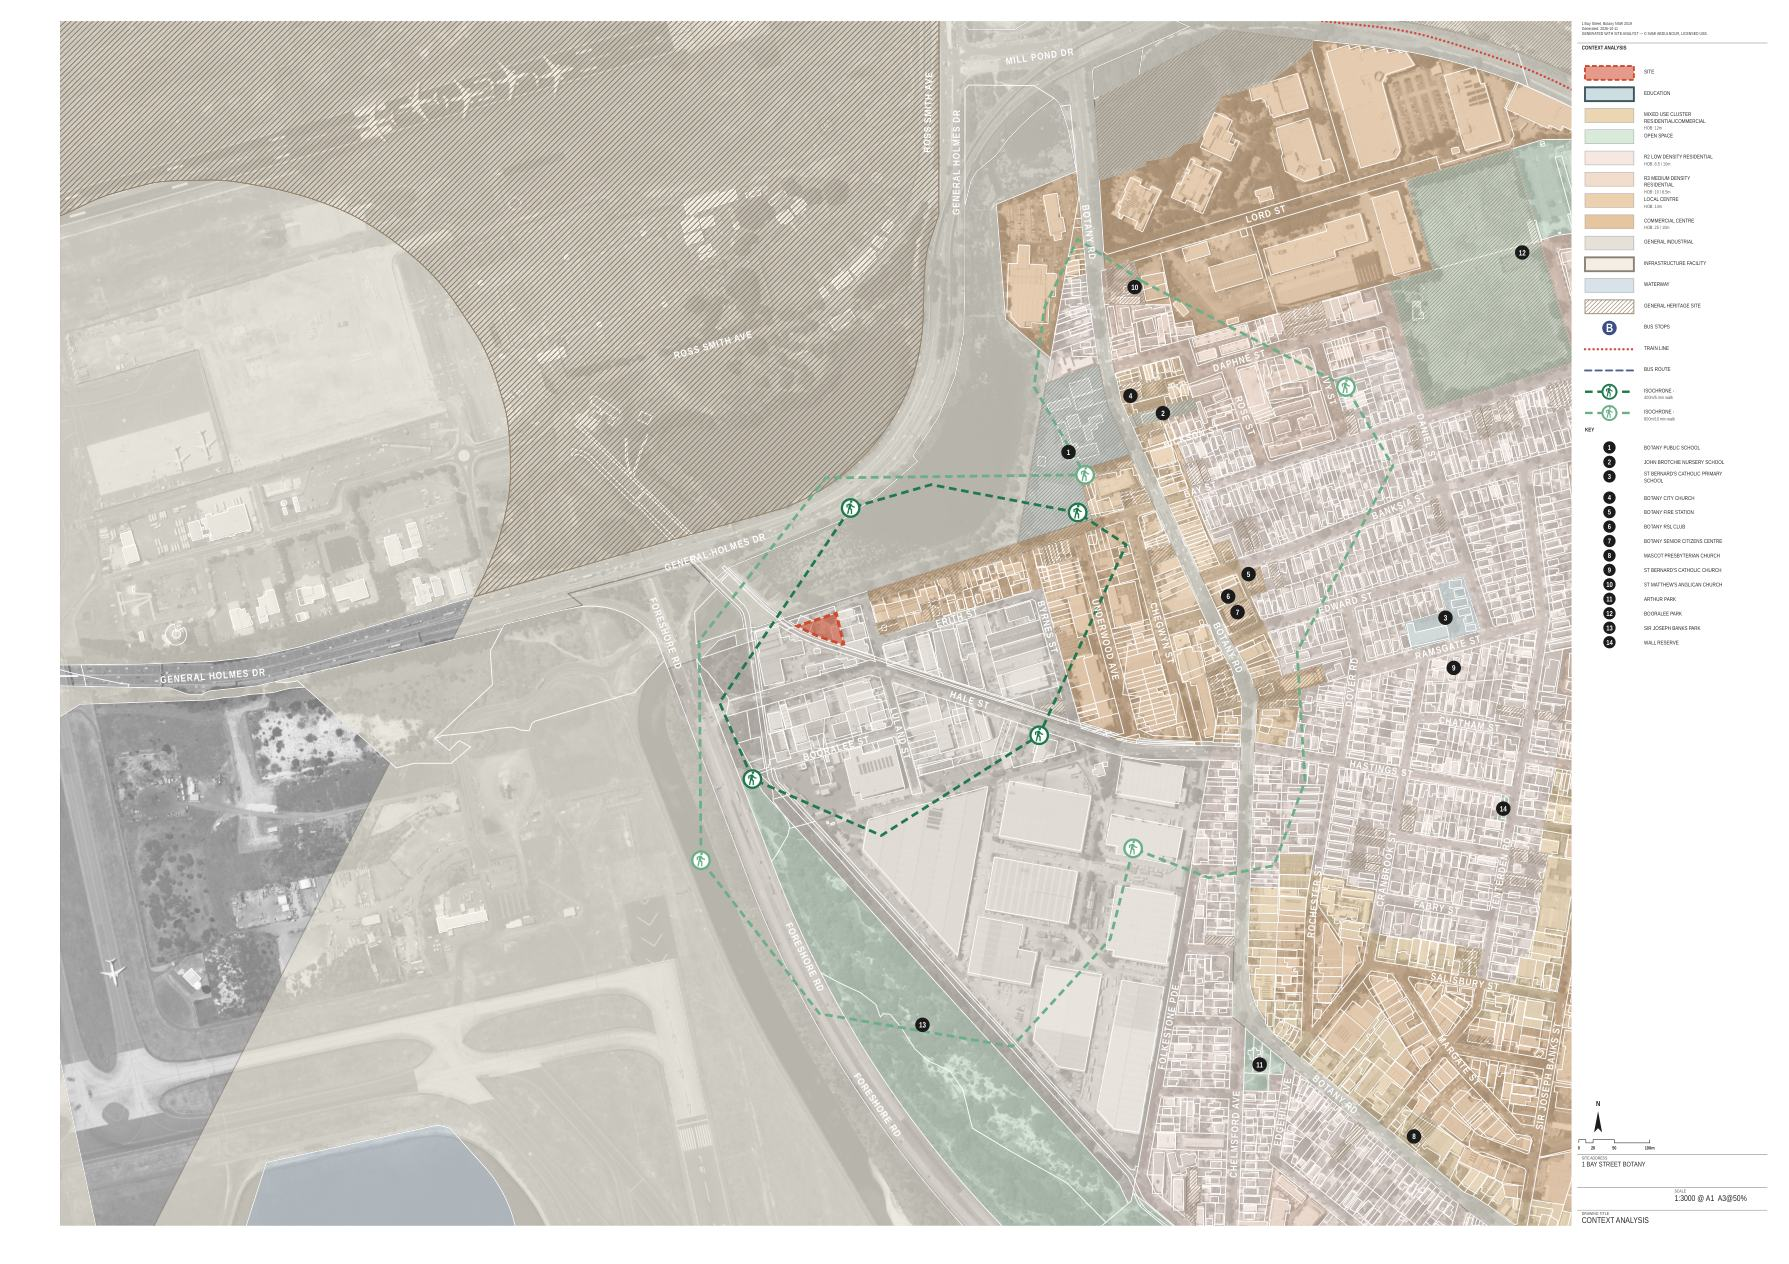
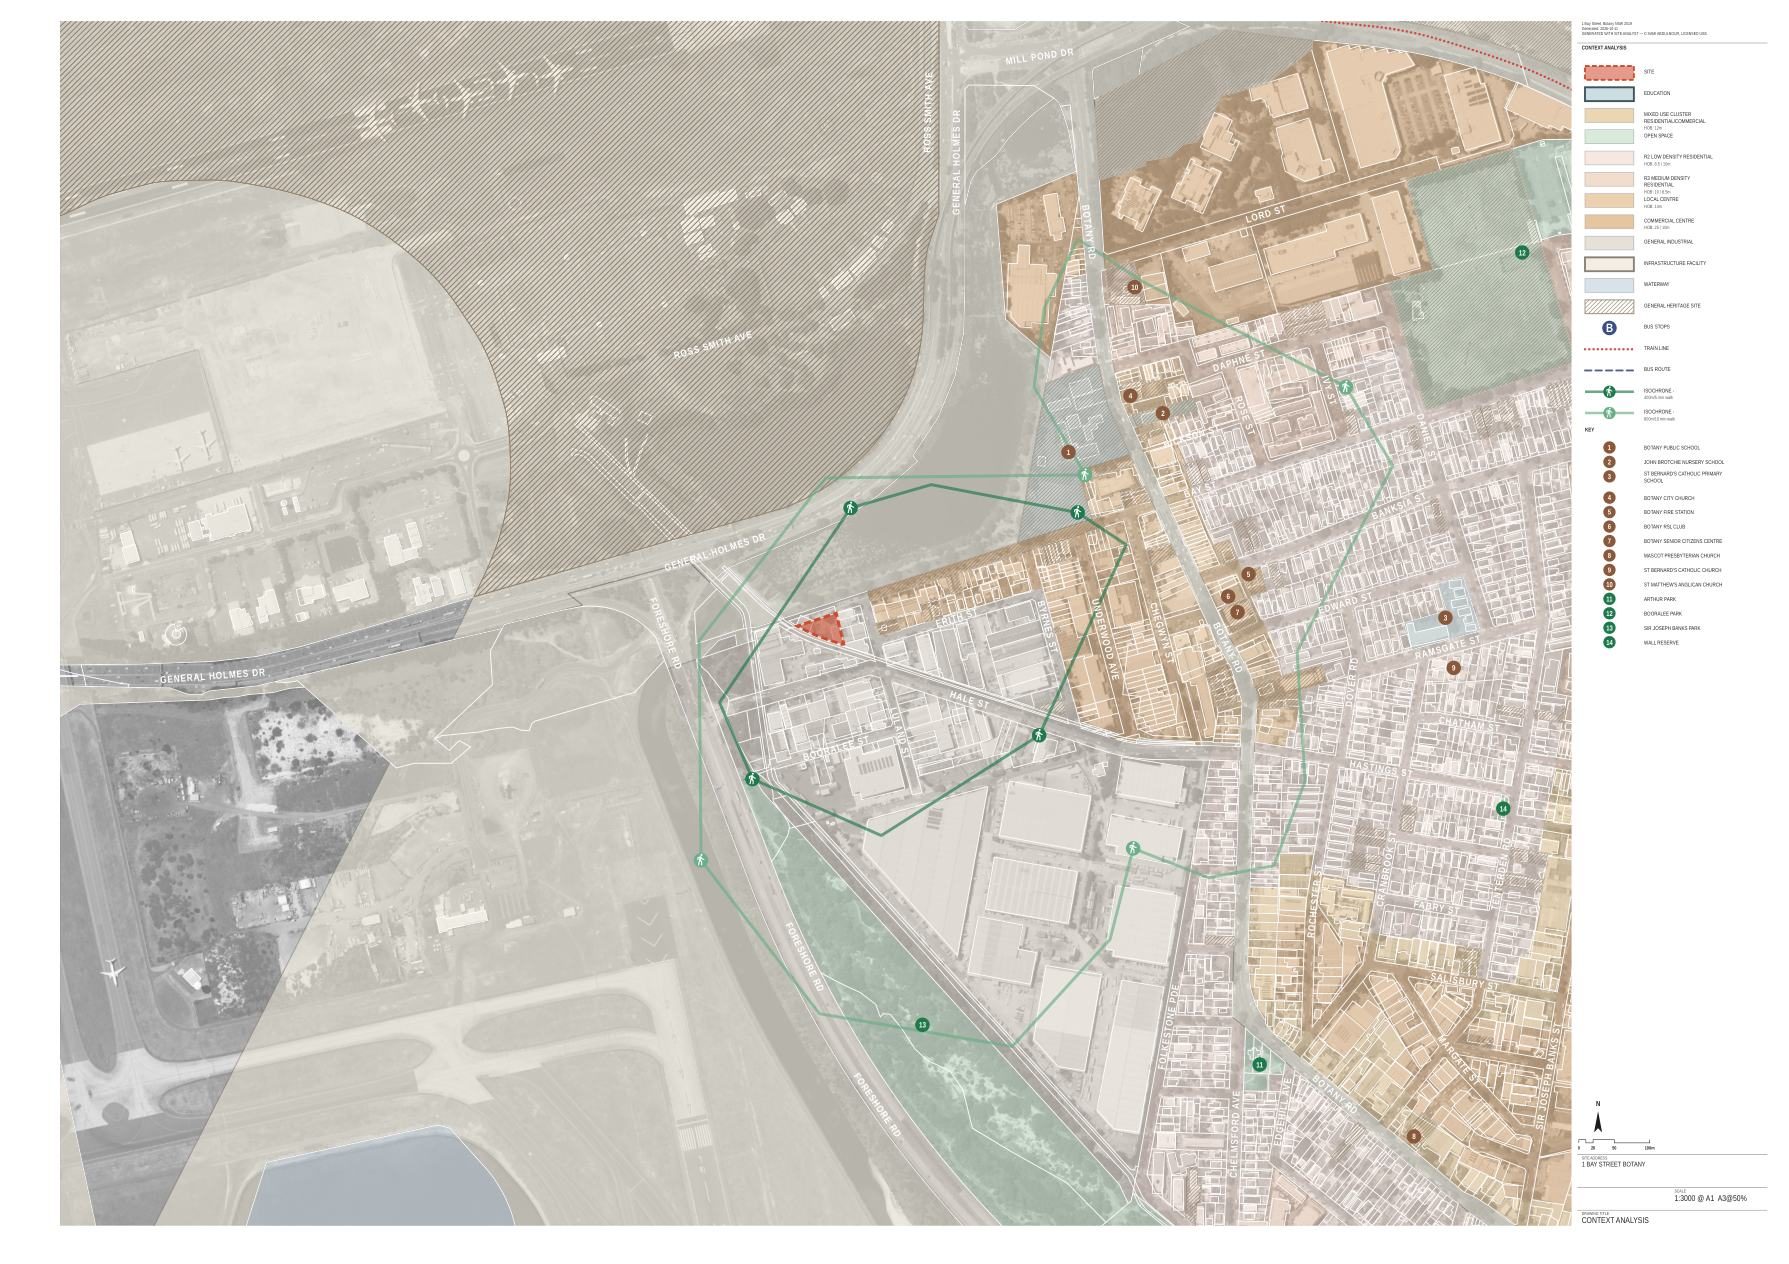
Noise as three wavy lines; Heron: continuous catchments, green walker discs, brown and green number discs
- Site sheet noise: three wavy lines side by side beside the source, each a
  white stroke in a blue pen swelling toward its middle and tapering at its
  ends, like the wind and the sun's rays.
- Heron: the catchments a continuous line at 65% opacity; the walker marker
  a solid disc in the ring's green with a white walker, the size of the
  other round marks; institution number discs brown and park discs green
  (new template field discParkInk), white numbers on both.

Claude-Session: https://claude.ai/code/session_01RgQLhzf6Uiv4rCaYoXs4QT

diff --git a/src/render/siteSheet.ts b/src/render/siteSheet.ts
@@ -329,9 +329,9 @@ export function renderSiteSheet(sb: SiteBundle, meta: SheetMeta): string {
     return inside;
   };
   const noiseMarks: string[] = [];
-  // The sound arcs drawn out along the source, on the site's side, white
-  // inside a blue pen like the wind. They break where they would cross the
-  // site or leave the sheet.
+  // Sound as wavy lines along the source, on the site's side, white inside a
+  // blue pen like the wind. They break where they would cross the site or
+  // leave the sheet.
   const soundAlong = (pts: Pt[], seed: number) => {
     const samples: { p: Pt; n: Pt; s: number }[] = [];
     let run = 0;
@@ -340,43 +340,49 @@ export function renderSiteSheet(sb: SiteBundle, meta: SheetMeta): string {
       const len = Math.hypot(bx - ax, by - ay);
       if (!len) continue;
       const nx = -(by - ay) / len, ny = (bx - ax) / len;
-      for (let d = 0; d < len; d += 0.6) samples.push({ p: [ax + ((bx - ax) * d) / len, ay + ((by - ay) * d) / len], n: [nx, ny], s: run + d });
+      for (let d = 0; d < len; d += 0.3) samples.push({ p: [ax + ((bx - ax) * d) / len, ay + ((by - ay) * d) / len], n: [nx, ny], s: run + d });
       run += len;
     }
     if (samples.length < 2) return;
     const mid = samples[Math.floor(samples.length / 2)];
     const side = Math.sign((noiseCentre[0] - mid.p[0]) * mid.n[0] + (noiseCentre[1] - mid.p[1]) * mid.n[1]) || 1;
-    // The rope: one continuous strip nearest the source, fattest in each
-    // arc and pinched between them. Beyond it, two rows of shorter, thinner
-    // dashes, each dash an arc on its own, the sound fading as it spreads.
-    // [offset from the source, half-thickness, arc length, dash on, period]
-    const strips: [number, number, number, number, number][] = [
-      [6, 1.6, 15, 0, 0],
-      [13.5, 1.05, 0, 8, 15],
-      [20, 0.7, 0, 5, 15],
-    ];
-    strips.forEach(([off, th, arcLen, on, period], k) => {
-      let left: string[] = [], right: string[] = [];
-      const flush = () => {
-        if (left.length > 3) noiseMarks.push(`<path d="M${left.join('L')}L${right.reverse().join('L')}Z"/>`);
-        left = []; right = [];
-      };
+    // Three wavy lines side by side, each a stroke white inside a blue pen
+    // that swells toward its middle and tapers away at its ends (and a
+    // little along the way), like the wind's arrows and the sun's rays.
+    // [offset from the source (mm), half-thickness at its fullest]
+    const lines: [number, number][] = [[7, 1.3], [17, 1.6], [27, 1.9]];
+    const A = 3.2, P = 12;                   // the waves' amplitude and period, mm
+    lines.forEach(([off, th], k) => {
+      // The wavy centre line, run by run.
+      const runs: Pt[][] = [];
+      let cur: Pt[] = [];
       for (const { p, n, s: t } of samples) {
-        const c = side * (off + 1.2 * Math.sin(t / 23 + seed));
-        const cx = p[0] + n[0] * c, cy = p[1] + n[1] * c;
-        if (!inMap([cx, cy]) || inSiteRing(cx, cy)) { flush(); continue; }
-        let w: number;
-        if (!on) {
-          w = 0.18 + th * Math.pow(Math.abs(Math.sin((Math.PI * t) / arcLen + seed)), 0.7);
-        } else {
-          const u = (((t + k * 4.5 + seed * 3) % period) + period) % period;
-          if (u > on) { flush(); continue; }
-          w = 0.05 + th * Math.pow(Math.sin((Math.PI * u) / on), 0.7);
-        }
-        left.push(`${(cx + n[0] * w).toFixed(2)},${(cy + n[1] * w).toFixed(2)}`);
-        right.push(`${(cx - n[0] * w).toFixed(2)},${(cy - n[1] * w).toFixed(2)}`);
+        const base = side * (off + 0.8 * Math.sin(t / 29 + seed));
+        const bx = p[0] + n[0] * base, by = p[1] + n[1] * base;
+        if (!inMap([bx, by]) || inSiteRing(bx, by)) { if (cur.length > 8) runs.push(cur); cur = []; continue; }
+        const wv = A * Math.sin((2 * Math.PI * t) / P + seed + k * 1.1);
+        cur.push([bx + n[0] * wv, by + n[1] * wv]);
       }
-      flush();
+      if (cur.length > 8) runs.push(cur);
+      for (const r of runs) {
+        const cum = [0];
+        for (let i = 1; i < r.length; i++) cum.push(cum[i - 1] + Math.hypot(r[i][0] - r[i - 1][0], r[i][1] - r[i - 1][1]));
+        const L = cum[cum.length - 1] || 1;
+        const left: string[] = [], right: string[] = [];
+        for (let i = 0; i < r.length; i++) {
+          const a2 = r[Math.max(0, i - 1)], b2 = r[Math.min(r.length - 1, i + 1)];
+          const tx = b2[0] - a2[0], ty = b2[1] - a2[1];
+          const tl = Math.hypot(tx, ty) || 1;
+          const nx = -ty / tl, ny = tx / tl;
+          const u = cum[i] / L;
+          // Tapered at both ends of the run, swelling gently along it.
+          const taper = Math.min(1, u / 0.08, (1 - u) / 0.08);
+          const w = 0.12 + th * Math.max(0, taper) * (0.75 + 0.25 * Math.sin(cum[i] / 17 + seed * 2 + k));
+          left.push(`${(r[i][0] + nx * w).toFixed(2)},${(r[i][1] + ny * w).toFixed(2)}`);
+          right.push(`${(r[i][0] - nx * w).toFixed(2)},${(r[i][1] - ny * w).toFixed(2)}`);
+        }
+        noiseMarks.push(`<path d="M${left.join('L')}L${right.reverse().join('L')}Z"/>`);
+      }
     });
   };
   const mainRoads = sb.roads.filter((r) => r.hierarchy <= 4);
@@ -1022,25 +1028,21 @@ export function renderSiteSheet(sb: SiteBundle, meta: SheetMeta): string {
   if (sb.busStops.length) row(`<g transform="translate(${mid},3.2)"><circle r="3.4" fill="#fff" stroke="#2f7fd6" stroke-width="0.8"/><text text-anchor="middle" dy="1.9" font-size="5.7" font-weight="700" fill="#2f7fd6">B</text></g>`, 'BUS STOPS');
   if (sb.furniture.onewayRoads.length) row(`<path d="M${SWATCH_X},3.2 L${SWATCH_X + SWATCH_W - 4},3.2 M${SWATCH_X + SWATCH_W - 7},1.4 L${SWATCH_X + SWATCH_W - 4},3.2 L${SWATCH_X + SWATCH_W - 7},5" fill="none" stroke="#8a8a8a" stroke-width="1.0"/>`, 'TRAFFIC DIRECTION');
   {
-    const strip = (y: number, th: number, len: number, ph: number) => {
+    const wavy = (y: number, th: number, ph: number) => {
+      const pts: Pt[] = [];
+      for (let x = 0; x <= SWATCH_W - 2; x += 0.2) pts.push([SWATCH_X + 1 + x, y + 0.55 * Math.sin((2 * Math.PI * x) / 2.6 + ph)]);
       const top: string[] = [], bot: string[] = [];
-      for (let x = 0; x <= SWATCH_W - 2; x += 0.4) {
-        const w = 0.08 + th * Math.pow(Math.abs(Math.sin((Math.PI * x) / len + ph)), 0.7);
-        top.push(`${(SWATCH_X + 1 + x).toFixed(2)},${(y - w).toFixed(2)}`);
-        bot.push(`${(SWATCH_X + 1 + x).toFixed(2)},${(y + w).toFixed(2)}`);
-      }
+      pts.forEach((pt, i) => {
+        const a2 = pts[Math.max(0, i - 1)], b2 = pts[Math.min(pts.length - 1, i + 1)];
+        const tx = b2[0] - a2[0], ty = b2[1] - a2[1], tl = Math.hypot(tx, ty) || 1;
+        const u = i / (pts.length - 1);
+        const w = 0.05 + th * Math.min(1, u / 0.12, (1 - u) / 0.12);
+        top.push(`${(pt[0] - (ty / tl) * w).toFixed(2)},${(pt[1] + (tx / tl) * w).toFixed(2)}`);
+        bot.push(`${(pt[0] + (ty / tl) * w).toFixed(2)},${(pt[1] - (tx / tl) * w).toFixed(2)}`);
+      });
       return `<path d="M${top.join('L')}L${bot.reverse().join('L')}Z"/>`;
     };
-    const dash = (x0: number, y: number, th: number, len: number) => {
-      const top: string[] = [], bot: string[] = [];
-      for (let x = 0; x <= len; x += 0.3) {
-        const w = 0.04 + th * Math.pow(Math.sin((Math.PI * x) / len), 0.7);
-        top.push(`${(SWATCH_X + x0 + x).toFixed(2)},${(y - w).toFixed(2)}`);
-        bot.push(`${(SWATCH_X + x0 + x).toFixed(2)},${(y + w).toFixed(2)}`);
-      }
-      return `<path d="M${top.join('L')}L${bot.reverse().join('L')}Z"/>`;
-    };
-    row(`<g fill="#fff" stroke="${NOISE_BLUE}" stroke-width="0.25" stroke-linejoin="round">${strip(5.4, 0.55, 6, 0)}${dash(2, 3, 0.35, 3.6)}${dash(8.5, 3, 0.35, 3.6)}${dash(15, 3, 0.35, 3.6)}${dash(4, 1, 0.25, 2.4)}${dash(10.5, 1, 0.25, 2.4)}${dash(17, 1, 0.25, 2.4)}</g>`, 'NOISE SOURCE', 'busy roads and the railway');
+    row(`<g fill="#fff" stroke="${NOISE_BLUE}" stroke-width="0.2" stroke-linejoin="round">${wavy(1.2, 0.32, 0)}${wavy(3.2, 0.38, 1.1)}${wavy(5.2, 0.44, 2.2)}</g>`, 'NOISE SOURCE', 'busy roads and the railway');
   }
   {
     const rib = `M${SWATCH_X + 2},2.6 C${SWATCH_X + 7},0.8 ${SWATCH_X + 11},4.8 ${SWATCH_X + 16},2.4 L${SWATCH_X + 16},1 L${SWATCH_X + 21},3.2 L${SWATCH_X + 16},5.4 L${SWATCH_X + 16},4 C${SWATCH_X + 11},6.2 ${SWATCH_X + 7},2.6 ${SWATCH_X + 2},3.8 Z`;

diff --git a/src/render/sheet.ts b/src/render/sheet.ts
@@ -153,11 +153,11 @@ export function walkerGlyph(color: string, scale: number): string {
   return `<g transform="scale(${scale}) translate(-12.6,-13.5)"><path fill="${color}" d="M13.5 5.5c1.1 0 2-.9 2-2s-.9-2-2-2-2 .9-2 2 .9 2 2 2zM9.8 8.9L7 23h2.1l1.8-8 2.1 2v6h2v-7.5l-2.1-2 .6-3C14.8 12 16.8 13 19 13v-2c-1.9 0-3.5-1-4.3-2.4l-1-1.6c-.4-.6-1-1-1.7-1-.3 0-.5.1-.8.1L6 8.3V13h2V9.6l1.8-.7"/></g>`;
 }
 
-/** Walker-in-circle marker sitting on an isochrone ring, all in ring color. */
-export function walkerMedallion(x: number, y: number, color: string): string {
+/** Walker marker sitting on an isochrone ring: a solid disc in the ring's colour with the walker knocked out in white, the size of the sheet's other round marks. */
+export function walkerMedallion(x: number, y: number, color: string, r = 3.4): string {
   return `<g transform="translate(${x.toFixed(1)},${y.toFixed(1)})">
-    <circle r="4.1" fill="#ffffff" stroke="${color}" stroke-width="1.1"/>
-    ${walkerGlyph(color, 0.30)}
+    <circle r="${r}" fill="${color}"/>
+    ${walkerGlyph('#ffffff', r * 0.074)}
   </g>`;
 }
 
@@ -688,9 +688,10 @@ export function renderSheet(bundle: Bundle, meta: SheetMeta): string {
     if (dottedIso) {
       layers.push(`<path d="${d}" fill="none" stroke="${st.color}" ${ISO_DOTS} opacity="0.85" stroke-linejoin="round"/>`);
     } else if (walkerIso) {
-      // The office style: a dashed line with walker medallions spaced along
-      // the ring's own length, staggered between the two contours.
-      layers.push(`<path d="${d}" fill="none" stroke="${st.color}" stroke-width="1.3" stroke-dasharray="3.6,2.2" stroke-linejoin="round"/>`);
+      // The office style: a continuous line, a little transparent, with
+      // walker medallions spaced along the ring's own length, staggered
+      // between the two contours.
+      layers.push(`<path d="${d}" fill="none" stroke="${st.color}" stroke-width="1.4" opacity="0.65" stroke-linejoin="round"/>`);
       const ring = [...iso.rings].sort((a, b) => b.length - a.length)[0];
       if (ring) {
         const pts: Pt[] = ring.map(([lon, lat]) => proj(lon, lat));
@@ -917,9 +918,15 @@ export function renderSheet(bundle: Bundle, meta: SheetMeta): string {
   const mapNumberSize = numberSize * (MARK_R / KR) * 0.92;
   // A solid disc with the number knocked out of it: one small dark mark a
   // reader can find, rather than a ring that competes with the roundels.
+  // Parks may take their own disc colour (discParkInk) apart from the
+  // institutions'.
+  const discFor = (n: number) => {
+    const pl = places.find((q) => q.n === n);
+    return (pl?.cat === 'openSpace' ? tpl().discParkInk : undefined) ?? tpl().discInk ?? tpl().streetInk;
+  };
   const numberMarker = (x: number, y: number, n: number, r = NR, size = mapNumberSize) =>
     `<g transform="translate(${x.toFixed(1)},${y.toFixed(1)})">
-      <circle r="${r}" fill="${tpl().discInk ?? tpl().streetInk}"/>
+      <circle r="${r}" fill="${discFor(n)}"/>
       <text text-anchor="middle" dy="${(size * 0.36).toFixed(2)}" font-size="${size.toFixed(2)}" font-weight="700" fill="#ffffff">${n}</text></g>`;
   for (const pl of places) reserve([pl.x, pl.y], [pl.x, pl.y], NR + 1);
   layers.push(places.map((pl) => numberMarker(pl.x, pl.y, pl.n)).join('\n'));
@@ -1252,8 +1259,8 @@ export function renderSheet(bundle: Bundle, meta: SheetMeta): string {
   const legendIso = (color: string) => dottedIso
     ? `<line x1="${SWATCH_X}" y1="3.2" x2="${SWATCH_X + SWATCH_W}" y2="3.2" stroke="${color}" ${ISO_DOTS} opacity="0.85"/>`
     : walkerIso
-    ? `<g><line x1="${SWATCH_X}" y1="3.2" x2="${SWATCH_X + SWATCH_W}" y2="3.2" stroke="${color}" stroke-width="1.1" stroke-dasharray="3.6,2.2"/>
-       <g transform="translate(${symC},3.2)"><circle r="3.3" fill="#fff" stroke="${color}" stroke-width="0.9"/>${walkerGlyph(color, 0.24)}</g></g>`
+    ? `<g><line x1="${SWATCH_X}" y1="3.2" x2="${SWATCH_X + SWATCH_W}" y2="3.2" stroke="${color}" stroke-width="1.2" opacity="0.65"/>
+       <g transform="translate(${symC},3.2)"><circle r="2.9" fill="${color}"/>${walkerGlyph('#fff', 0.215)}</g></g>`
     : lineIso
     ? `<line x1="${SWATCH_X}" y1="3.2" x2="${SWATCH_X + SWATCH_W}" y2="3.2" stroke="${color}" stroke-width="1.2"/>`
     : `<line x1="${SWATCH_X}" y1="3.2" x2="${SWATCH_X + SWATCH_W}" y2="3.2" stroke="${color}" stroke-width="${ISO_W}" opacity="${ISO_OPACITY}" stroke-linecap="round"/>`;

diff --git a/src/render/template.ts b/src/render/template.ts
@@ -85,6 +85,8 @@ export interface Template {
   tintScale?: number;
   /** The number discs' fill, where it differs from the street names' ink (Heron: white names, black discs). */
   discInk?: string;
+  /** The parks' number discs, where they differ from the institutions' (Heron: green parks, brown institutions). */
+  discParkInk?: string;
   /** The cadastre: a faint hairline in the road ink, or a white line over the aerial. */
   lots?: 'faint' | 'white';
   /** The aerial in its own colours, or in greyscale. */
@@ -241,8 +243,9 @@ export const TEMPLATES: Template[] = [
     categories: KINGFISHER_CATEGORIES },
   { id: 'heron', label: 'Heron', note: 'the original office sheet over the aerial, with Flamingo\'s stops, red dotted railway and numbered places',
     font: NARROW, streetFont: NARROW, textScale: 0.96,
-    // Arial Narrow throughout, white on the aerial; the place discs stay black.
-    ink: '#1c1c1c', streetInk: '#ffffff', discInk: '#1c1c1c', rule: '#8a8a8a',
+    // Arial Narrow throughout, white on the aerial; the institutions' discs
+    // brown, the parks' in the catchments' green.
+    ink: '#1c1c1c', streetInk: '#ffffff', discInk: '#8a5a3c', discParkInk: '#1f7a4d', rule: '#8a8a8a',
     site: '#cf4a2e', dimension: '#3c4c5a', wind: '#6d8a99', sun: '#f0e4c0', road: '#7d7d7d', water: '#cbdae2',
     transit: NAVY, rail: '#d43d33', walk5: '#1f7a4d', walk10: '#6aaf88', busRoute: '#7a8bb0', heritage: '#94836a',
     isochrone: 'walkers', roundel: 'solid', busLine: 'dashed', railLine: 'dotted',

diff --git a/README.md b/README.md
@@ -356,9 +356,8 @@ summer arc and a dashed winter arc, each arc marked with a dot and the time at
 every solar hour; the prevailing winds as three widening arrows blowing in
 toward the site, stopping short of a sun from the same quarter. Noise — the
 busy roads and the railway — is drawn like the wind but in blue, white in a
-blue pen, beside the source on the site's side: a continuous rope of arcs
-nearest the source, then two rows of shorter, thinner dashes as the sound
-spreads. A view's distance and "TERRAIN CLEAR" are set in two rows. The
+blue pen, beside the source on the site's side: three wavy lines side by side,
+each swelling toward its middle and tapering at its ends. A view's distance and "TERRAIN CLEAR" are set in two rows. The
 sun, wind and view lettering is set heavy. Contours are green; the cadastre
 and the neighbours' building outlines are white over the aerial.
 
@@ -533,14 +532,14 @@ discs are a light leaf green, in the hue of the reference's fields.
 **Heron** (`heron`) is the office sheet the restyle began from: the aerial,
 in greyscale (`aerialTone: 'grey'`), with the lots and every building as heavy
 white lines over it (`lots: 'white'`, `footprints: 'outline'`) and all its
-text in white Arial Narrow (the place discs black, `discInk`), under a light
+text in white Arial Narrow (institutions' number discs brown, parks' green, `discInk` and `discParkInk`), under a light
 white veil with the tints at full strength over it (the palette
 sampled from that sheet's legend — tan mixed use and centres, peach
 residential, mint open space, the institutions in outlined slate blues), no
 building footprints and no white street strips, every street named in plain
 bold black straight on the photo (no arrow bands or outline;
 `streetLabels: 'band'` brings the bands back), and the walking
-catchments as dashed green lines with walker medallions. From Flamingo it
+catchments as continuous green lines at reduced opacity with solid green walker discs. From Flamingo it
 takes the solid stop roundels, the red dotted railway and the numbered
 places with their key, the discs in black.
 
